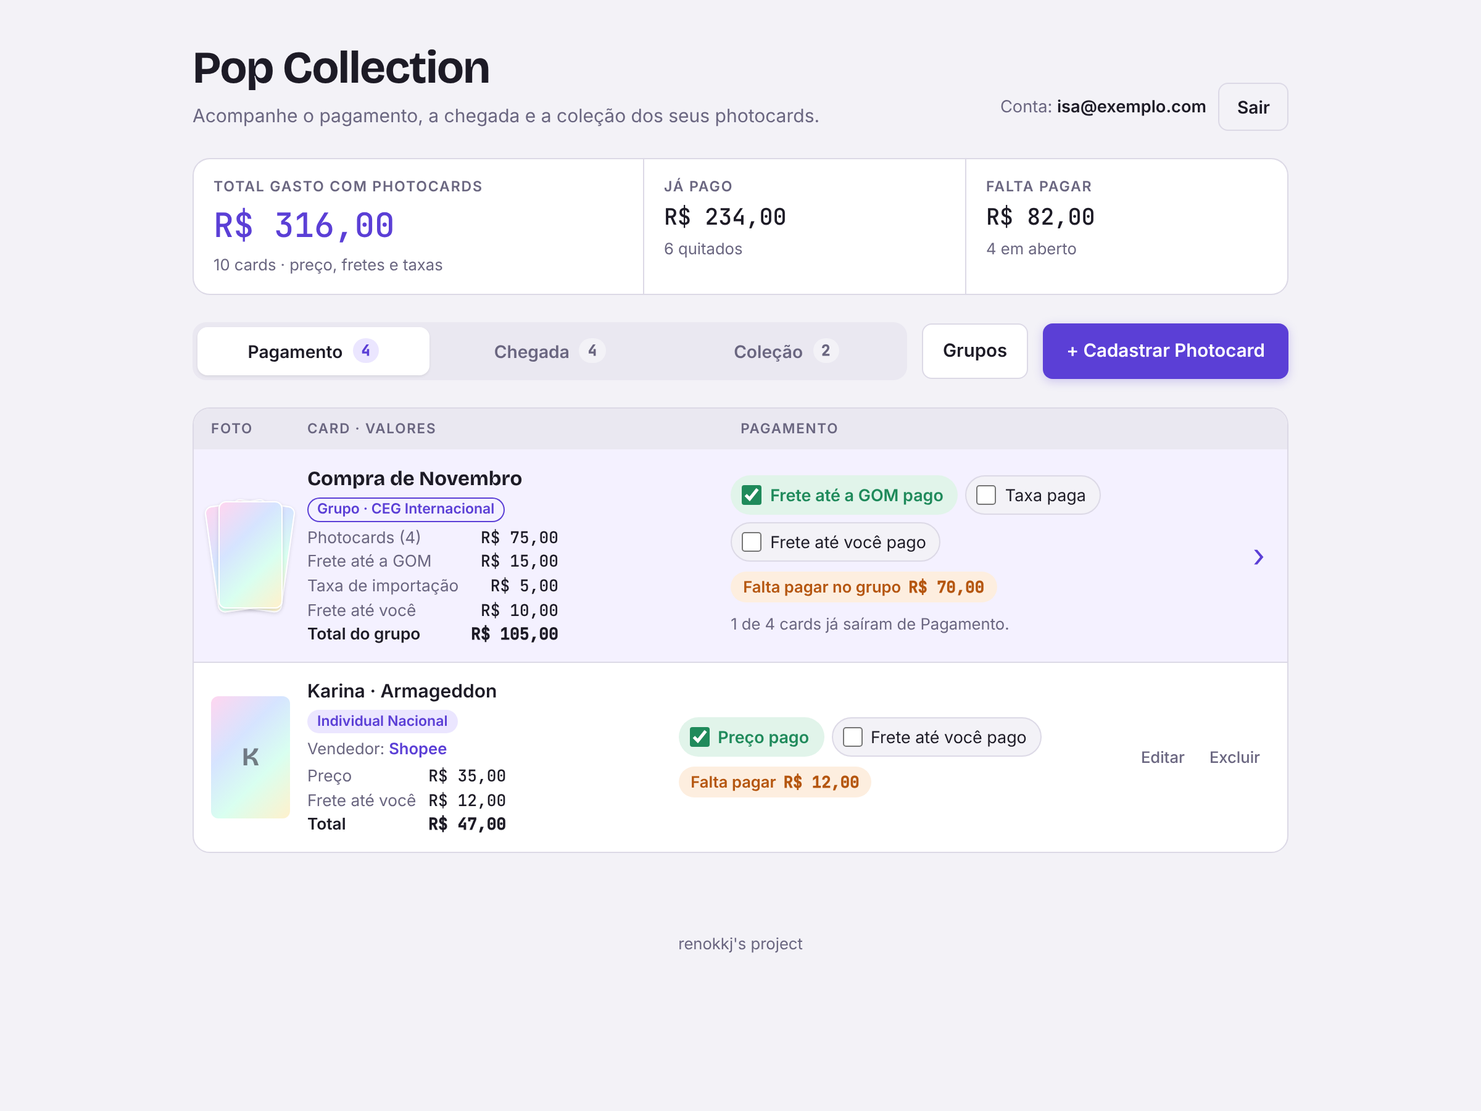
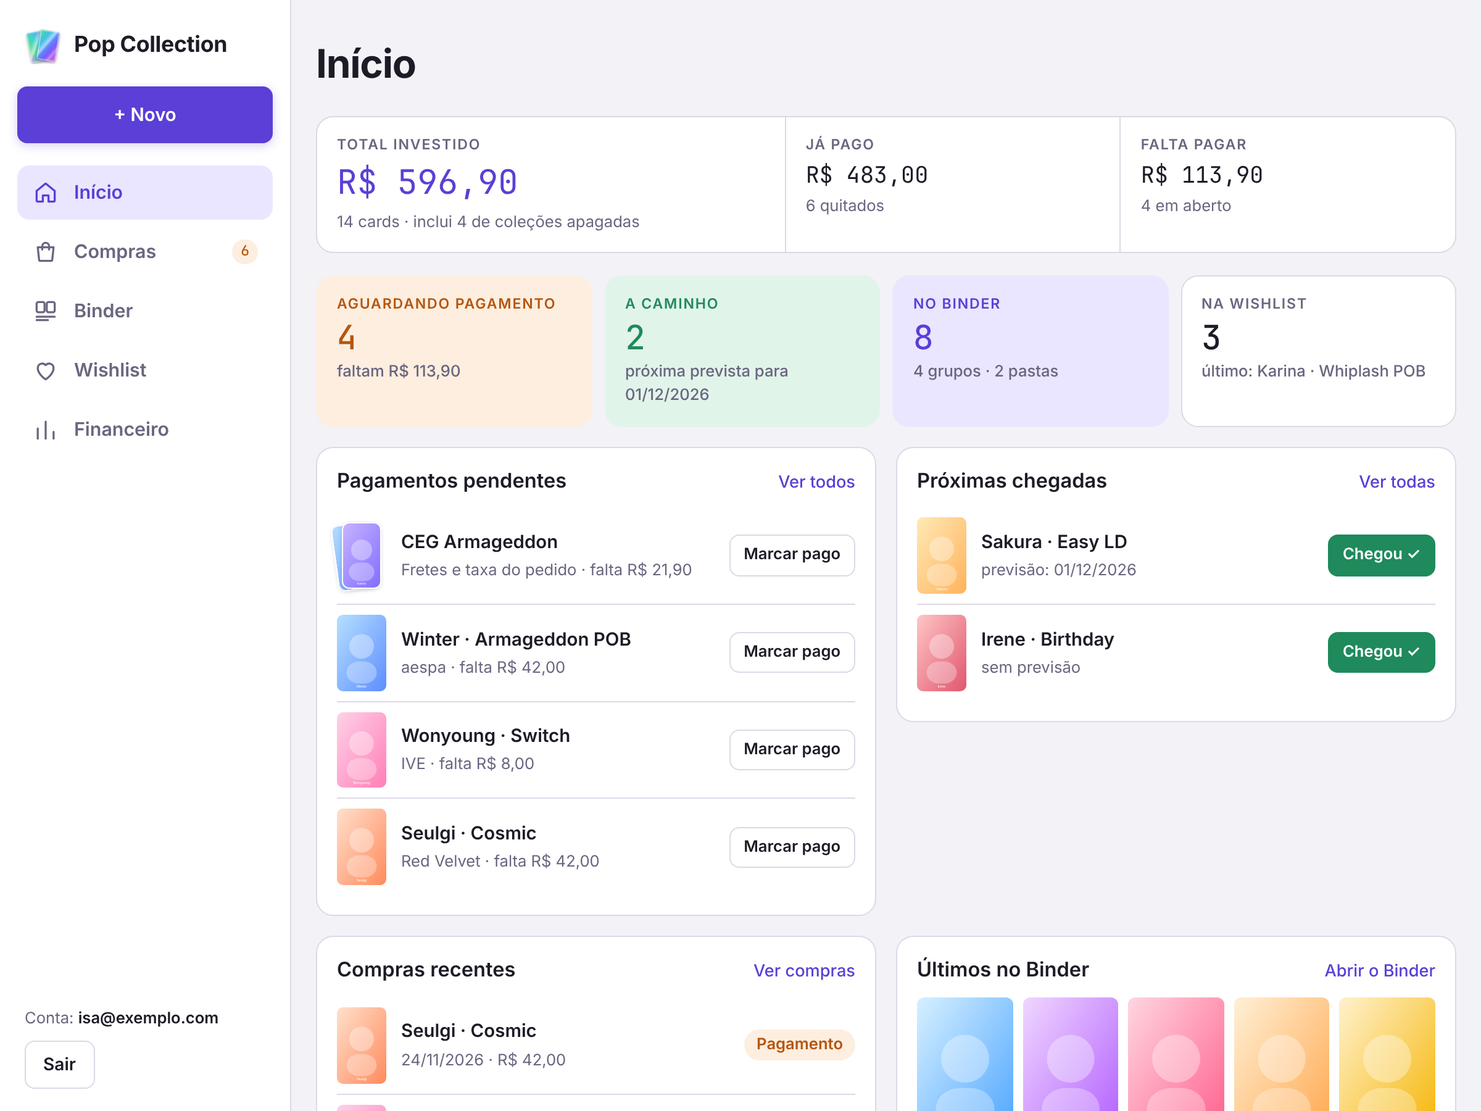
Adiciona gráficos ao Financeiro e atualiza o README com Binder e Wishlist

diff --git a/app.js b/app.js
@@ -1797,19 +1797,64 @@
   }
 
   // ---------- Financeiro ----------
-  function bars(rows, note) {
-    if (!rows.length) return el("p", { class: "box-empty", text: "Nada para mostrar ainda." });
+  // barras horizontais; fmt muda o número da direita (dinheiro por padrão)
+  function bars(rows, note, fmt = money, empty = "Nada para mostrar ainda.") {
+    if (!rows.length) return el("p", { class: "box-empty", text: empty });
     const max = Math.max(...rows.map((r) => r[1])) || 1;
-    return el("div", { class: "bars" }, ...rows.map(([label, v, sub]) => el("div", { class: "bar-row" },
+    return el("div", { class: "bars" }, ...rows.map(([label, v, sub]) => el("div", { class: "bar-row", title: `${label}: ${fmt(v)}${sub ? " · " + sub : ""}` },
       el("span", { class: "bar-label" }, document.createTextNode(label), sub ? el("small", { text: sub }) : null),
       el("span", { class: "bar-track", "aria-hidden": "true" }, el("span", { class: "bar-fill", style: `width:${Math.max(2, (v / max) * 100).toFixed(1)}%` })),
-      el("span", { class: "bar-val num", text: money(v) }))),
+      el("span", { class: "bar-val num", text: fmt(v) }))),
       note ? el("p", { class: "hint", text: note }) : null);
+  }
+  const MES = ["jan", "fev", "mar", "abr", "mai", "jun", "jul", "ago", "set", "out", "nov", "dez"];
+  // colunas dos últimos 12 meses (meses sem compra aparecem zerados); o valor aparece no maior e no mês atual,
+  // os outros ao passar o dedo ou o mouse
+  function monthColumns(months) {
+    const now = new Date();
+    const keys = [];
+    for (let i = 11; i >= 0; i--) { const d = new Date(now.getFullYear(), now.getMonth() - i, 1); keys.push(`${d.getFullYear()}-${String(d.getMonth() + 1).padStart(2, "0")}`); }
+    const vals = keys.map((k) => months.get(k) || 0);
+    if (!vals.some((v) => v > 0)) return el("p", { class: "box-empty", text: "Nenhuma compra nos últimos 12 meses." });
+    const max = Math.max(...vals);
+    const iMax = vals.indexOf(max), iNow = keys.length - 1;
+    const sel = el("p", { class: "cols-sel", "aria-live": "polite" });
+    const show = (i) => { sel.textContent = `${MES[Number(keys[i].slice(5, 7)) - 1]} ${keys[i].slice(0, 4)}: ${money(vals[i])}`; };
+    const cols = el("div", { class: "cols", role: "list" }, ...keys.map((k, i) => {
+      const lab = `${MES[Number(k.slice(5, 7)) - 1]} ${k.slice(0, 4)}: ${money(vals[i])}`;
+      return el("button", { class: "col" + (i === iNow ? " now" : ""), type: "button", role: "listitem", title: lab, "aria-label": lab,
+        onmouseenter: () => show(i), onfocus: () => show(i), onclick: () => show(i) },
+        el("span", { class: "col-val num", text: (i === iMax || i === iNow) && vals[i] > 0 ? moneyShort(vals[i]) : "" }),
+        el("span", { class: "col-bar", style: `height:${vals[i] > 0 ? Math.max(3, (vals[i] / max) * 100).toFixed(1) : 0}%` }),
+        el("span", { class: "col-lab" }, MES[Number(k.slice(5, 7)) - 1], k.endsWith("-01") || i === 0 ? el("small", { class: "col-y", text: " " + k.slice(2, 4) }) : null));
+    }));
+    show(iNow);
+    return el("div", {}, cols, sel);
+  }
+  const moneyShort = (v) => (v >= 1000 ? "R$ " + (v / 1000).toLocaleString("pt-BR", { maximumFractionDigits: 1 }) + " mil" : "R$ " + Math.round(v).toLocaleString("pt-BR"));
+  // de onde vem o dinheiro: uma barra dividida em photocards, fretes e taxas
+  function splitBar(parts) {
+    const tot = parts.reduce((s, p) => s + p[1], 0);
+    if (tot <= 0) return null;
+    const pct = (v) => Math.round((v / tot) * 100) + "%";
+    return el("section", { class: "box split" },
+      el("div", { class: "box-head" }, el("h2", { text: "Para onde vai o dinheiro" })),
+      el("div", { class: "split-bar", role: "img", "aria-label": parts.map(([l, v]) => `${l} ${pct(v)}`).join(", ") },
+        ...parts.filter((p) => p[1] > 0).map(([l, v], i) => el("span", { class: "sp sp-" + parts.findIndex((x) => x[0] === l), style: `flex-grow:${v}`, title: `${l}: ${money(v)} (${pct(v)})` }))),
+      el("div", { class: "split-legend" }, ...parts.map(([l, v], i) => el("span", { class: "leg" },
+        el("i", { class: "sp-" + i, "aria-hidden": "true" }), el("b", { text: l }), el("span", { class: "num", text: `${money(v)} · ${pct(v)}` })))));
   }
   function sumBy(list, keyFn) {
     const m = new Map();
     list.forEach((c) => { const k = keyFn(c); const cur = m.get(k) || [k, 0, 0]; cur[1] = cents(cur[1] + total(c)); cur[2]++; m.set(k, cur); });
     return [...m.values()].filter((r) => r[1] > 0).sort((a, b) => b[1] - a[1]).map(([k, v, n]) => [k, v, plural(n, "card", "cards")]);
+  }
+  const cardsN = (n) => plural(n, "card", "cards");
+  // quantos cards por grupo de K-pop (Binder e Wishlist não têm valores)
+  function countBy(list) {
+    const m = new Map();
+    list.forEach((c) => { const k = c.artist || "Sem grupo de K-pop"; const key = k.toLowerCase(); const cur = m.get(key) || [k, 0]; cur[1]++; m.set(key, cur); });
+    return [...m.values()].sort((a, b) => b[1] - a[1] || a[0].localeCompare(b[0])).slice(0, 10);
   }
   function renderFin(sm) {
     const fin = $("fin");
@@ -1838,7 +1883,6 @@
     const addMonth = (iso, v) => { const k = (iso || "").slice(0, 7); if (!k) return; months.set(k, cents((months.get(k) || 0) + v)); };
     list.forEach((c) => addMonth(buyDate(c), total(c)));
     groups.forEach((g) => addMonth((g.created_at || "").slice(0, 10), fees(g)));
-    const MES = ["jan", "fev", "mar", "abr", "mai", "jun", "jul", "ago", "set", "out", "nov", "dez"];
     const monthRows = [...months.entries()].sort((a, b) => b[0].localeCompare(a[0])).slice(0, 12)
       .map(([k, v]) => [`${MES[Number(k.slice(5, 7)) - 1]} ${k.slice(0, 4)}`, v]);
     const feeNote = groupFees > 0 ? `Fretes e taxas de pedidos (${money(groupFees)}) não entram aqui, porque valem para vários cards.` : null;
@@ -1851,11 +1895,16 @@
         kpi("Em photocards", cents(price), "preço dos cards"),
         kpi("Em fretes", cents(ship), "até a GOM e até você"),
         kpi("Em taxas", cents(tax), "taxa de importação")),
+      splitBar([["Photocards", cents(price)], ["Fretes", cents(ship)], ["Taxas", cents(tax)]]),
+      box("Gasto nos últimos 12 meses", null, monthColumns(months),
+        el("p", { class: "hint", text: "Pela data da compra. Fretes de pedido entram no mês em que o pedido foi criado." })),
       el("div", { class: "home-grid" },
-        box("Por mês", null, bars(monthRows, "Pela data da compra. Fretes de pedido entram no mês em que o pedido foi criado.")),
+        box("Por mês", null, bars(monthRows, null)),
         box("Por categoria", null, bars(catRows, gifts ? plural(gifts, "presente sem custo", "presentes sem custo") + " fora da conta." : null)),
         box("Por grupo de K-pop", null, bars(sumBy(list, (c) => c.artist || "Sem grupo de K-pop"), feeNote)),
-        box("Por vendedor", null, bars(sumBy(list, (c) => c.seller || "Sem vendedor"), feeNote))),
+        box("Por vendedor", null, bars(sumBy(list, (c) => c.seller || "Sem vendedor"), feeNote)),
+        box("Coleção por grupo", linkBtn("Abrir o Binder", "binder"), bars(countBy(binderCards()), null, cardsN, "O Binder ainda está vazio.")),
+        box("Wishlist por grupo", linkBtn("Abrir a Wishlist", "wishlist"), bars(countBy(wishCards()), null, cardsN, "A Wishlist está vazia."))),
       sm.dueSum > 0 ? el("div", { class: "fin-foot" },
         el("span", { text: `Falta pagar ${money(sm.dueSum)}.` }),
         el("button", { class: "btn-primary", type: "button", text: "Ver pagamentos pendentes", onclick: () => go("compras", "pay") })) : null);

diff --git a/style.css b/style.css
@@ -144,6 +144,29 @@ h2 { font-family: var(--f-display); font-weight: 600; font-size: 1.15rem; margin
 .bar-track { height: 10px; background: var(--sunken); border-radius: 99px; overflow: hidden; }
 .bar-fill { display: block; height: 100%; background: var(--accent); border-radius: 99px; }
 .bar-val { font-size: 0.84rem; text-align: right; }
+/* gasto por mês em colunas */
+.cols { display: grid; grid-template-columns: repeat(12, minmax(0, 1fr)); gap: 6px; align-items: end; height: 190px; padding-top: 4px; }
+.col { display: flex; flex-direction: column; align-items: center; justify-content: flex-end; height: 100%; gap: 4px; padding: 0; background: none; border: none; color: var(--muted); min-width: 0; border-radius: 6px; }
+.col:hover .col-bar, .col:focus-visible .col-bar { background: var(--accent); }
+.col:focus-visible { outline: 2px solid var(--accent); outline-offset: 2px; }
+.col-bar { width: 100%; max-width: 38px; background: color-mix(in srgb, var(--accent) 55%, var(--surface)); border-radius: 4px 4px 0 0; }
+.col.now .col-bar { background: var(--accent); }
+.col-val { font-size: 0.68rem; color: var(--fg); white-space: nowrap; min-height: 1em; }
+.col-lab { font-size: 0.68rem; white-space: nowrap; border-top: 1px solid var(--line); width: 100%; text-align: center; padding-top: 4px; }
+.col.now .col-lab { color: var(--accent); font-weight: 700; }
+.cols-sel { margin: 8px 0 0; font-size: 0.86rem; font-weight: 600; }
+.col-y { font-size: inherit; }
+@media (max-width: 600px) { .cols { gap: 3px; height: 160px; } .col-val { font-size: 0.6rem; } .col-lab { font-size: 0.6rem; } .col-y { display: none; } }
+/* de onde vem o dinheiro */
+.split-bar { display: flex; gap: 2px; height: 14px; border-radius: 4px; overflow: hidden; }
+.split-bar .sp { min-width: 4px; }
+.sp-0 { background: var(--accent); }
+.sp-1 { background: color-mix(in srgb, var(--accent) 55%, var(--surface)); }
+.sp-2 { background: color-mix(in srgb, var(--accent) 25%, var(--surface)); box-shadow: inset 0 0 0 1px color-mix(in srgb, var(--accent) 40%, var(--surface)); }
+.split-legend { display: flex; flex-wrap: wrap; gap: 6px 18px; margin-top: 10px; font-size: 0.84rem; }
+.leg { display: inline-flex; align-items: center; gap: 6px; }
+.leg i { width: 10px; height: 10px; border-radius: 3px; display: inline-block; }
+.leg .num { color: var(--muted); }
 .fin-foot { display: flex; flex-wrap: wrap; align-items: center; justify-content: space-between; gap: 10px; background: var(--warn-soft); color: var(--warn); border-radius: 12px; padding: 12px 14px; font-weight: 600; }
 
 /* Compras: busca e filtros */

diff --git a/index.html b/index.html
@@ -23,7 +23,7 @@
 <meta name="apple-mobile-web-app-title" content="Pop Collection">
 <link rel="preconnect" href="https://fonts.googleapis.com">
 <link rel="stylesheet" href="https://fonts.googleapis.com/css2?family=Bricolage+Grotesque:opsz,wght@12..96,500;12..96,700&family=Inter:wght@400;500;600&family=JetBrains+Mono:wght@500&display=swap">
-<link rel="stylesheet" href="style.css?v=17">
+<link rel="stylesheet" href="style.css?v=18">
 <style>html,body{margin:0}[hidden]{display:none!important}img{max-width:100%}</style>
 </head>
 <body>
@@ -396,7 +396,7 @@
 <div class="toast" id="toast" hidden></div>
 
 <script src="https://cdn.jsdelivr.net/npm/@supabase/supabase-js@2.45.4/dist/umd/supabase.js"></script>
-<script src="config.js?v=17"></script>
-<script src="app.js?v=17"></script>
+<script src="config.js?v=18"></script>
+<script src="app.js?v=18"></script>
 </body>
 </html>

diff --git a/README.md b/README.md
@@ -4,7 +4,7 @@
 
 # Pop Collection
 
-Controle os pagamentos, a chegada e a coleção dos seus photocards.
+Controle as compras, os pagamentos, a chegada, a coleção e a wishlist dos seus photocards.
 
 [![Abrir o app](https://img.shields.io/badge/abrir_o_app-5b3fd6?style=for-the-badge)](https://renokkj.github.io/pop-collection/)
 
@@ -25,54 +25,78 @@ Controle os pagamentos, a chegada e a coleção dos seus photocards.
 
 ## Sobre o projeto
 
-Criei o Pop Collection para resolver um problema meu: acompanhar quanto já paguei, o que falta pagar e quais photocards ainda estão a caminho. Foi o primeiro projeto que idealizei do zero, da ideia ao app publicado.
+Criei o Pop Collection para resolver um problema meu: acompanhar quanto já paguei, o que falta pagar e quais photocards ainda estão a caminho. Depois ele virou também o lugar da minha coleção (o Binder) e dos cards que eu quero ter (a Wishlist). Foi o primeiro projeto que idealizei do zero, da ideia ao app publicado.
 
 ## O que o app faz
 
+O app tem cinco seções: **Início**, **Compras**, **Binder**, **Wishlist** e **Financeiro**. No computador elas ficam na barra lateral; no celular, na barra de baixo.
+
+### Compras
+
+- **Registrar compra:** foto, nome, grupo de K-pop, vendedor, categoria, preço, fretes, data da compra e previsão de chegada. O total é calculado sozinho. Dá para registrar vários cards de uma vez com "+ Adicionar outro photocard".
+- **Colar a foto:** no computador, copie uma imagem e aperte Ctrl+V (Cmd+V no Mac) no cadastro.
+- **Categorias:** Individual ou CEG, Nacional ou Internacional. O formulário mostra só os fretes e a taxa de importação de cada categoria. Na CEG, você informa só a sua parte do que é dividido.
+- **Presente:** um card que você ganhou não tem custo e vai direto para a Chegada.
+- **Pedidos:** junte cards da mesma compra num pedido. Os fretes e a taxa ficam no pedido e contam uma vez só.
+- **Três abas:** Pagamento (marque cada valor pago), Chegada (com tudo pago, aguarde e toque em "Chegou ✓") e Concluídas.
+- **Busca e filtros** por nome, grupo de K-pop, vendedor e categoria.
+
+### Binder
+
+- **A coleção em grade, só com as fotos.** Toda compra que chega entra no Binder sozinha.
+- **Adicionar ao Binder:** para os cards que você já tem, com foto, nome e grupo, sem valores.
+- **Pastas** com nome e capa. Excluir uma pasta não apaga os cards.
+- **Detalhes ao tocar na foto:** uma compra mostra vendedor, valores, pagamento e chegada; um card do Binder mostra grupo e data. Dá para mover de pasta, editar e excluir.
+- **Excluir uma compra pelo Binder** pergunta se é para tirar só do Binder (a compra continua em Concluídas) ou excluir o card e a compra.
+- **Selecionar** vários cards para mover de pasta ou definir o grupo de uma vez.
+
+### Wishlist
+
+- **Os cards que você quer ter**, com foto, nome, grupo e pastas próprias.
+- **Adquiri este photocard:** "Comprei" abre o cadastro de compra já preenchido, e o card entra em Pagamento; "Já está comigo" leva o card direto para o Binder. O card não é duplicado.
+
+### Início e Financeiro
+
+- **Início:** total investido, já pago e falta pagar; quantos cards aguardam pagamento, estão a caminho, estão no Binder e na Wishlist; pagamentos pendentes com "Marcar pago"; próximas chegadas com "Chegou ✓"; compras recentes e os últimos cards no Binder.
+- **Financeiro:** quanto foi em photocards, fretes e taxas; gasto dos últimos 12 meses em colunas; gasto por mês, categoria, grupo de K-pop e vendedor; quantos cards há no Binder e na Wishlist por grupo. Só as compras entram nos valores.
+
+### Para todo o app
+
 - **Contas individuais:** cada pessoa só vê os próprios cards.
-- **Cadastro com foto:** pelo botão "+ Cadastrar Photocard", que abre uma janela com nome, vendedor, categoria, preço e fretes. A foto e o vendedor são opcionais. Dá para cadastrar vários cards de uma vez com "+ Adicionar outro photocard". Se fechar sem salvar, o cadastro abre vazio da próxima vez.
-- **Colar a foto:** no computador, copie uma imagem e aperte Ctrl+V (Cmd+V no Mac) no cadastro ou no Editar. Ela vai para o card em que você está.
-- **Categorias de compra:** Individual ou CEG, Nacional ou Internacional. O formulário mostra só os fretes e a taxa de importação (opcional) de cada categoria. Na CEG, você informa só a sua parte do que é dividido.
-- **Presente:** marque "Presente" no cadastro para um card que você ganhou. Ele não tem custo nenhum e vai direto para a aba Chegada. Também pode entrar num grupo, sem mudar os fretes nem o total dele.
-- **Grupos de compra:** junte cards da mesma compra num grupo com nome. Os fretes e a taxa de importação ficam no grupo e contam uma vez só, não importa quantos cards ele tenha. Um card fica em um grupo só.
-- **Janela do grupo:** nas abas, o grupo aparece como um bloco com os valores. Clique nele para abrir uma janela com os fretes e a taxa para marcar como pagos e os cards separados em Pagamento, Chegada e Coleção, cada um com as mesmas ações da tela inicial.
-- **Botão Grupos:** "Ver" abre a mesma janela do grupo, e "Editar" cria grupos com cards já cadastrados, adiciona ou tira cards, renomeia e exclui o grupo (os cards continuam cadastrados). Cards que já estão em outro grupo aparecem bloqueados, com o nome do grupo em que estão.
-- **Edição e exclusão:** corrija nome, vendedor, categoria, valores ou foto depois do cadastro, ou exclua um card.
-- **Controle financeiro:** mostra o total gasto, o que já foi pago e o que falta pagar.
-- **Três abas:** Pagamento, Chegada e Coleção, cada uma com a contagem de cards.
-- **Chegada:** separa os cards quitados (e os presentes) que ainda estão a caminho.
-- **Feito para o celular:** no celular, o botão + no canto da tela abre "Cadastrar photocard" e "Grupos".
+- **Botão + no celular:** em Compras, no Binder e na Wishlist ele abre o cadastro da seção; nas outras telas, mostra as opções. No computador, o mesmo fica no "+ Novo".
 - **Recuperar a senha** pelo link "Esqueci minha senha".
 - **Tema claro e escuro**, conforme o dispositivo.
-- **Instalar como app:** no celular ou no computador, adicione o site à tela inicial. Ele abre como app, com a logo do Pop Collection.
+- **Instalar como app:** no celular ou no computador, adicione o site à tela inicial.
 
 ## Como funciona
 
-O app abre nas abas **Pagamento**, **Chegada** e **Coleção**. O cadastro fica no botão **+ Cadastrar Photocard** e os grupos no botão **Grupos**, ao lado das abas. No celular, os dois ficam no botão **+** no canto da tela.
-
 ```mermaid
 flowchart LR
-    A[+ Cadastrar Photocard] --> B[Pagamento]
-    A -->|presente| C
-    B -->|tudo pago| C[Chegada]
-    C -->|Chegou ✓| D[Coleção]
+    W[Wishlist] -->|Comprei| P
+    W -->|Já está comigo| B
+    N[+ Registrar compra] --> P[Pagamento]
+    N -->|presente| C
+    P -->|tudo pago| C[Chegada]
+    C -->|Chegou ✓| B[Binder]
+    A[+ Adicionar ao Binder] --> B
 ```
 
-1. **Cadastrar:** clique em "+ Cadastrar Photocard", escolha a categoria e preencha os dados do card. O total (preço, fretes e taxa) é calculado sozinho, e o card entra na aba Pagamento. Para vários cards da mesma compra, use "+ Adicionar outro photocard" e dê um nome ao grupo. Se marcar "Presente", o card vai direto para a Chegada.
-2. **Pagamento:** marque cada valor pago (preço, fretes e taxa). O app mostra quanto ainda falta. Num grupo, cada card tem o seu "Preço pago" e os fretes e a taxa são marcados uma vez só, no bloco do grupo. Clique no grupo para abrir a janela com os cards dele.
-3. **Chegada:** com tudo pago, o card vem para cá. Quando receber, clique em "Chegou ✓" (ou em "Todos chegaram ✓" no grupo). Se marcou algo errado, "Voltar p/ pagamento" desfaz.
-4. **Coleção:** guarda os cards recebidos, um por um ou organizados por grupo ("Ainda não chegou" devolve o card para a Chegada). "Apagar coleção" remove esses cards e suas fotos, mas mantém o valor no total gasto.
+1. **Registrar:** a compra entra em Pagamento (ou direto na Chegada, se for presente).
+2. **Pagamento:** marque cada valor pago. Num pedido, os fretes e a taxa são marcados uma vez só, no próprio pedido.
+3. **Chegada:** com tudo pago, o card espera aqui até você tocar em "Chegou ✓".
+4. **Binder:** o card que chegou aparece na grade, e a compra fica em Concluídas com os valores.
+5. **Wishlist:** quando conseguir um card desejado, toque em "Adquiri este photocard".
 
 ## Telas
 
 <table>
   <tr>
-    <td width="50%"><img src="docs/cadastro-fotos.png" alt="Cadastro de dois photocards num grupo novo, um deles com foto colada"><br><sub><b>Cadastro:</b> vários cards de uma vez, num grupo com nome. A foto pode ser enviada ou colada com Ctrl+V.</sub></td>
-    <td width="50%"><img src="docs/janela-grupo.png" alt="Janela do grupo com os fretes e os cards separados por etapa"><br><sub><b>Janela do grupo:</b> fretes, taxa e cards com as ações de cada etapa, incluindo um presente.</sub></td>
+    <td width="50%"><img src="docs/binder.png" alt="Binder no computador com pastas e grade de fotos"><br><sub><b>Binder:</b> pastas no topo, busca, filtro por grupo e a grade só com as fotos.</sub></td>
+    <td width="50%"><img src="docs/financeiro.png" alt="Financeiro com a divisão do gasto e o gráfico dos últimos 12 meses"><br><sub><b>Financeiro:</b> para onde vai o dinheiro e o gasto dos últimos 12 meses.</sub></td>
   </tr>
   <tr>
-    <td width="50%"><img src="docs/grupo-editar.png" alt="Edição de grupo com cards de outro grupo bloqueados"><br><sub><b>Editar grupo:</b> cards que já estão em outro grupo ficam bloqueados.</sub></td>
-    <td width="50%" align="center"><img src="docs/celular-grupo.png" alt="Janela do grupo no celular" width="44%">&nbsp;<img src="docs/celular-menu.png" alt="Celular com o botão + aberto" width="44%"><br><sub><b>Celular:</b> a janela do grupo e o botão + com "Cadastrar photocard" e "Grupos".</sub></td>
+    <td width="50%"><img src="docs/cadastro-compra.png" alt="Janela de registrar compra"><br><sub><b>Registrar compra:</b> categoria, pedido, datas, pasta no Binder e os dados de cada card.</sub></td>
+    <td width="50%" align="center"><img src="docs/celular-binder.png" alt="Binder no celular" width="44%">&nbsp;<img src="docs/celular-adquiri.png" alt="Card da Wishlist com as opções de Adquiri este photocard" width="44%"><br><sub><b>Celular:</b> o Binder e o "Adquiri este photocard" da Wishlist.</sub></td>
   </tr>
 </table>
 
@@ -86,6 +110,19 @@ flowchart LR
 | Hospedagem | GitHub Pages (branch `main`, pasta `/ (root)`) |
 | Contas, banco e fotos | [Supabase](https://supabase.com), na região São Paulo |
 
+## Banco de dados
+
+O banco fica no Supabase (PostgreSQL). Tudo está em [`supabase/schema.sql`](supabase/schema.sql), que pode ser rodado de novo sem apagar dados.
+
+| Tabela | O que guarda |
+| --- | --- |
+| `cards` | Cada photocard. A coluna `kind` diz o tipo: `compra`, `binder` ou `wishlist`. Compras têm valores, pagamento e chegada; Binder e Wishlist só têm foto, nome e grupo (uma regra do banco impede valores neles). |
+| `card_groups` | Os pedidos, com os fretes e a taxa que valem para vários cards |
+| `folders` | As pastas do Binder e da Wishlist (`scope`) |
+| `stats` | O valor das coleções apagadas em versões antigas, que continua no total |
+
+Os totais do app somam só os cards com `kind = 'compra'`.
+
 ## Segurança
 
 - As regras de acesso (RLS) do [`schema.sql`](supabase/schema.sql) limitam cada pessoa aos próprios dados.
@@ -96,12 +133,12 @@ flowchart LR
 
 | Arquivo | O que faz |
 | --- | --- |
-| [`index.html`](index.html) | Telas de login e do app, e as janelas de cadastro de photocards e de grupos |
+| [`index.html`](index.html) | Telas de login e do app (Início, Compras, Binder, Wishlist e Financeiro) e as janelas de cadastro, pedidos, pastas e detalhes |
 | [`style.css`](style.css) | Visual (temas claro e escuro) |
-| [`app.js`](app.js) | Contas, cards, grupos, fotos e totais |
+| [`app.js`](app.js) | Contas, compras, pedidos, Binder, Wishlist, pastas, fotos, totais e gráficos |
 | [`config.js`](config.js) | URL e chave `anon` do Supabase |
 | [`icons/`](icons) e [`manifest.webmanifest`](manifest.webmanifest) | Logo, ícone da aba e ícone para instalar o site como app |
-| [`supabase/schema.sql`](supabase/schema.sql) | Tabelas, regras de segurança e bucket de fotos |
+| [`supabase/schema.sql`](supabase/schema.sql) | Tabelas, regras de segurança e bucket de fotos (veja [Banco de dados](#banco-de-dados)) |
 
 ## Rodar no computador
 
